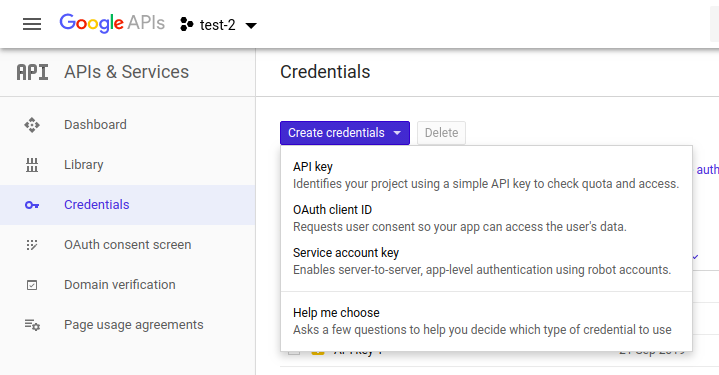
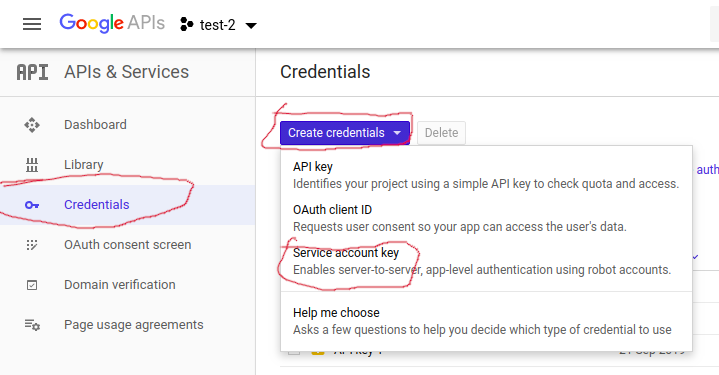
readme

diff --git a/README.md b/README.md
@@ -81,4 +81,42 @@
  - [Quick Start](https://developers.google.com/sheets/api/quickstart/nodejs)
  - [OAuth 2.0 Scopes for Google APIs](https://developers.google.com/identity/protocols/googlescopes)
  - [OAuth 2.0 Scopes for Google APIs **Identity Protocals**](https://developers.google.com/identity/protocols/googlescopes#sheetsv4)
- - []
+ - [Google Cloud Console](https://console.cloud.google.com)
+
+ 1. Enable google sheet api
+
+ ![Enable api](screenshots/Screenshot_11.png)
+
+ ![Enable api](screenshots/Screenshot_12.png)
+
+ 2. Create Credentials
+
+ ![Credentials](screenshots/Screenshot_14.png)
+
+ ![Credentials](screenshots/Screenshot_15.png)
+
+ 3. Create APi key
+
+ ![Credentials](screenshots/Screenshot_18.png)
+
+ 4. Create Service Account And Download JSON file
+
+ ![Credentials](screenshots/Screenshot_19.png)
+
+ ![Credentials](screenshots/Screenshot_20.png)
+
+ 5. Copy google sheet ID from url (after __https://docs.google.com/spreadsheets/d/__ and before __/edit#gid=1856000146__ id is placed)
+
+ ![sheet id](screenshots/Screenshot_21.png)
+
+ 6. Go to manage service account get the email 
+
+ ![manage account](screenshots/Screenshot_22.png)
+
+ ![email](screenshots/Screenshot_23.png)
+
+ 7. share sheet with it
+
+ ![sheet id](screenshots/Screenshot_24.png)
+
+ 7. 
